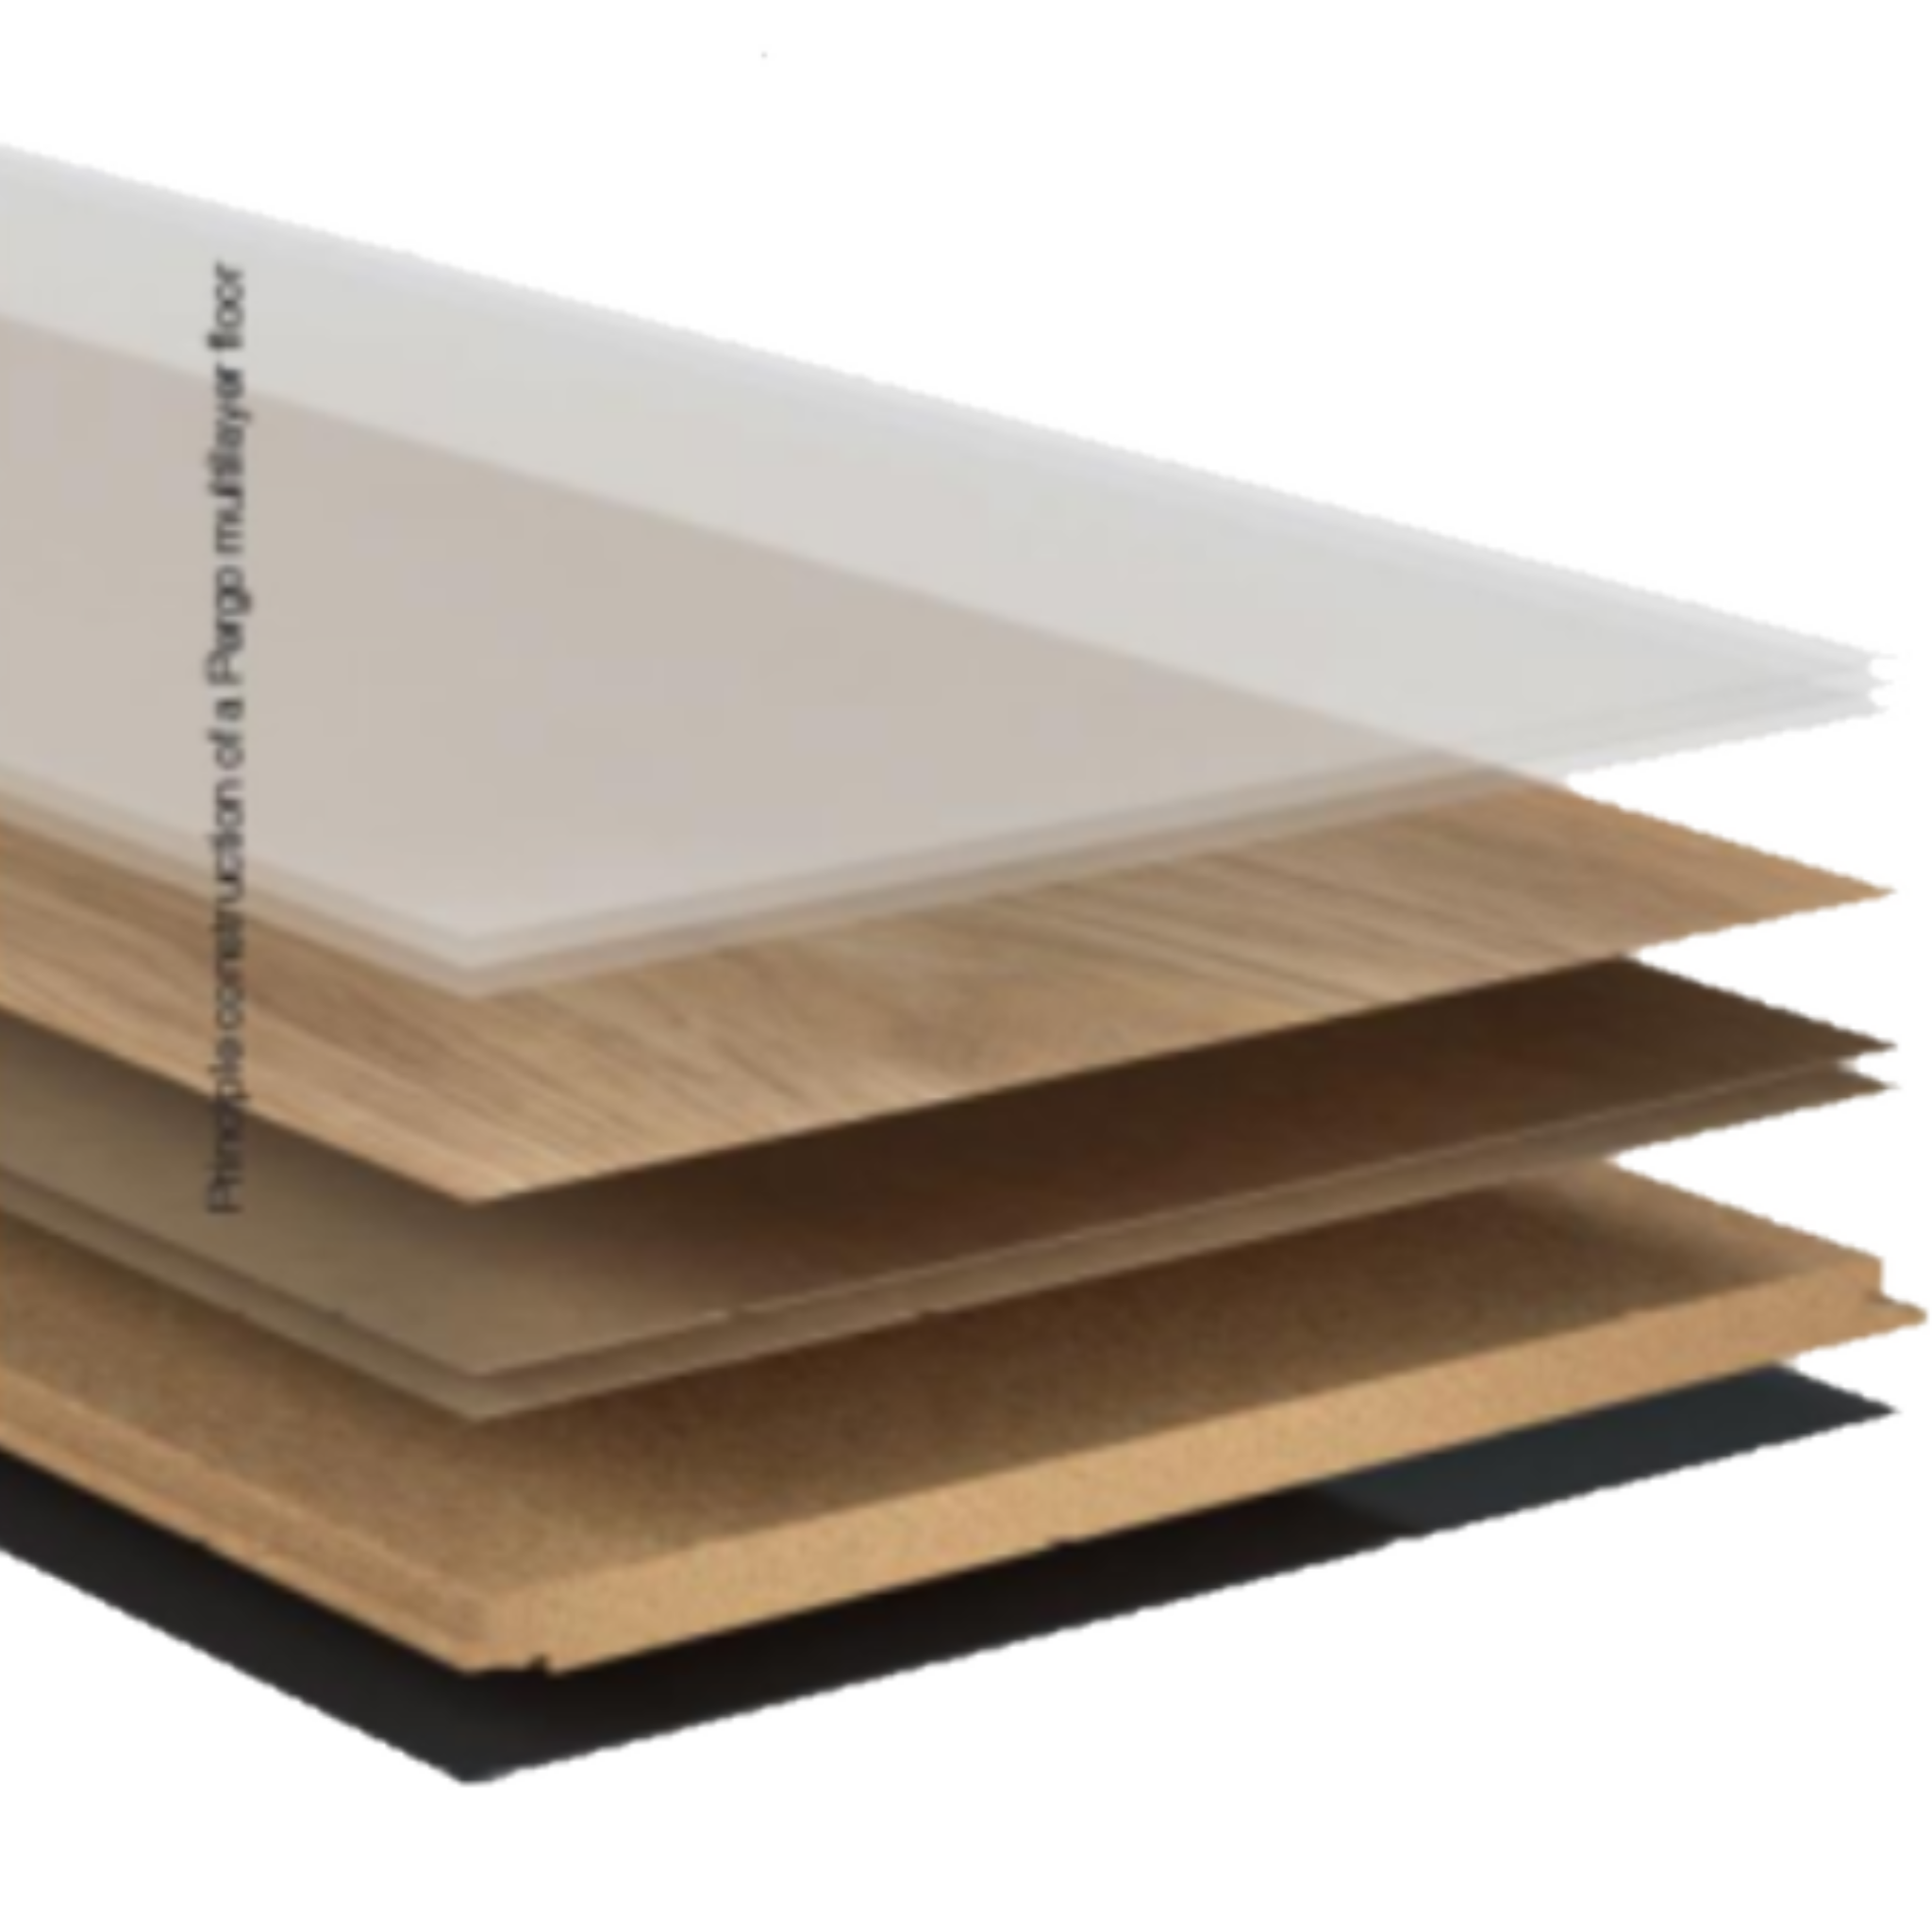
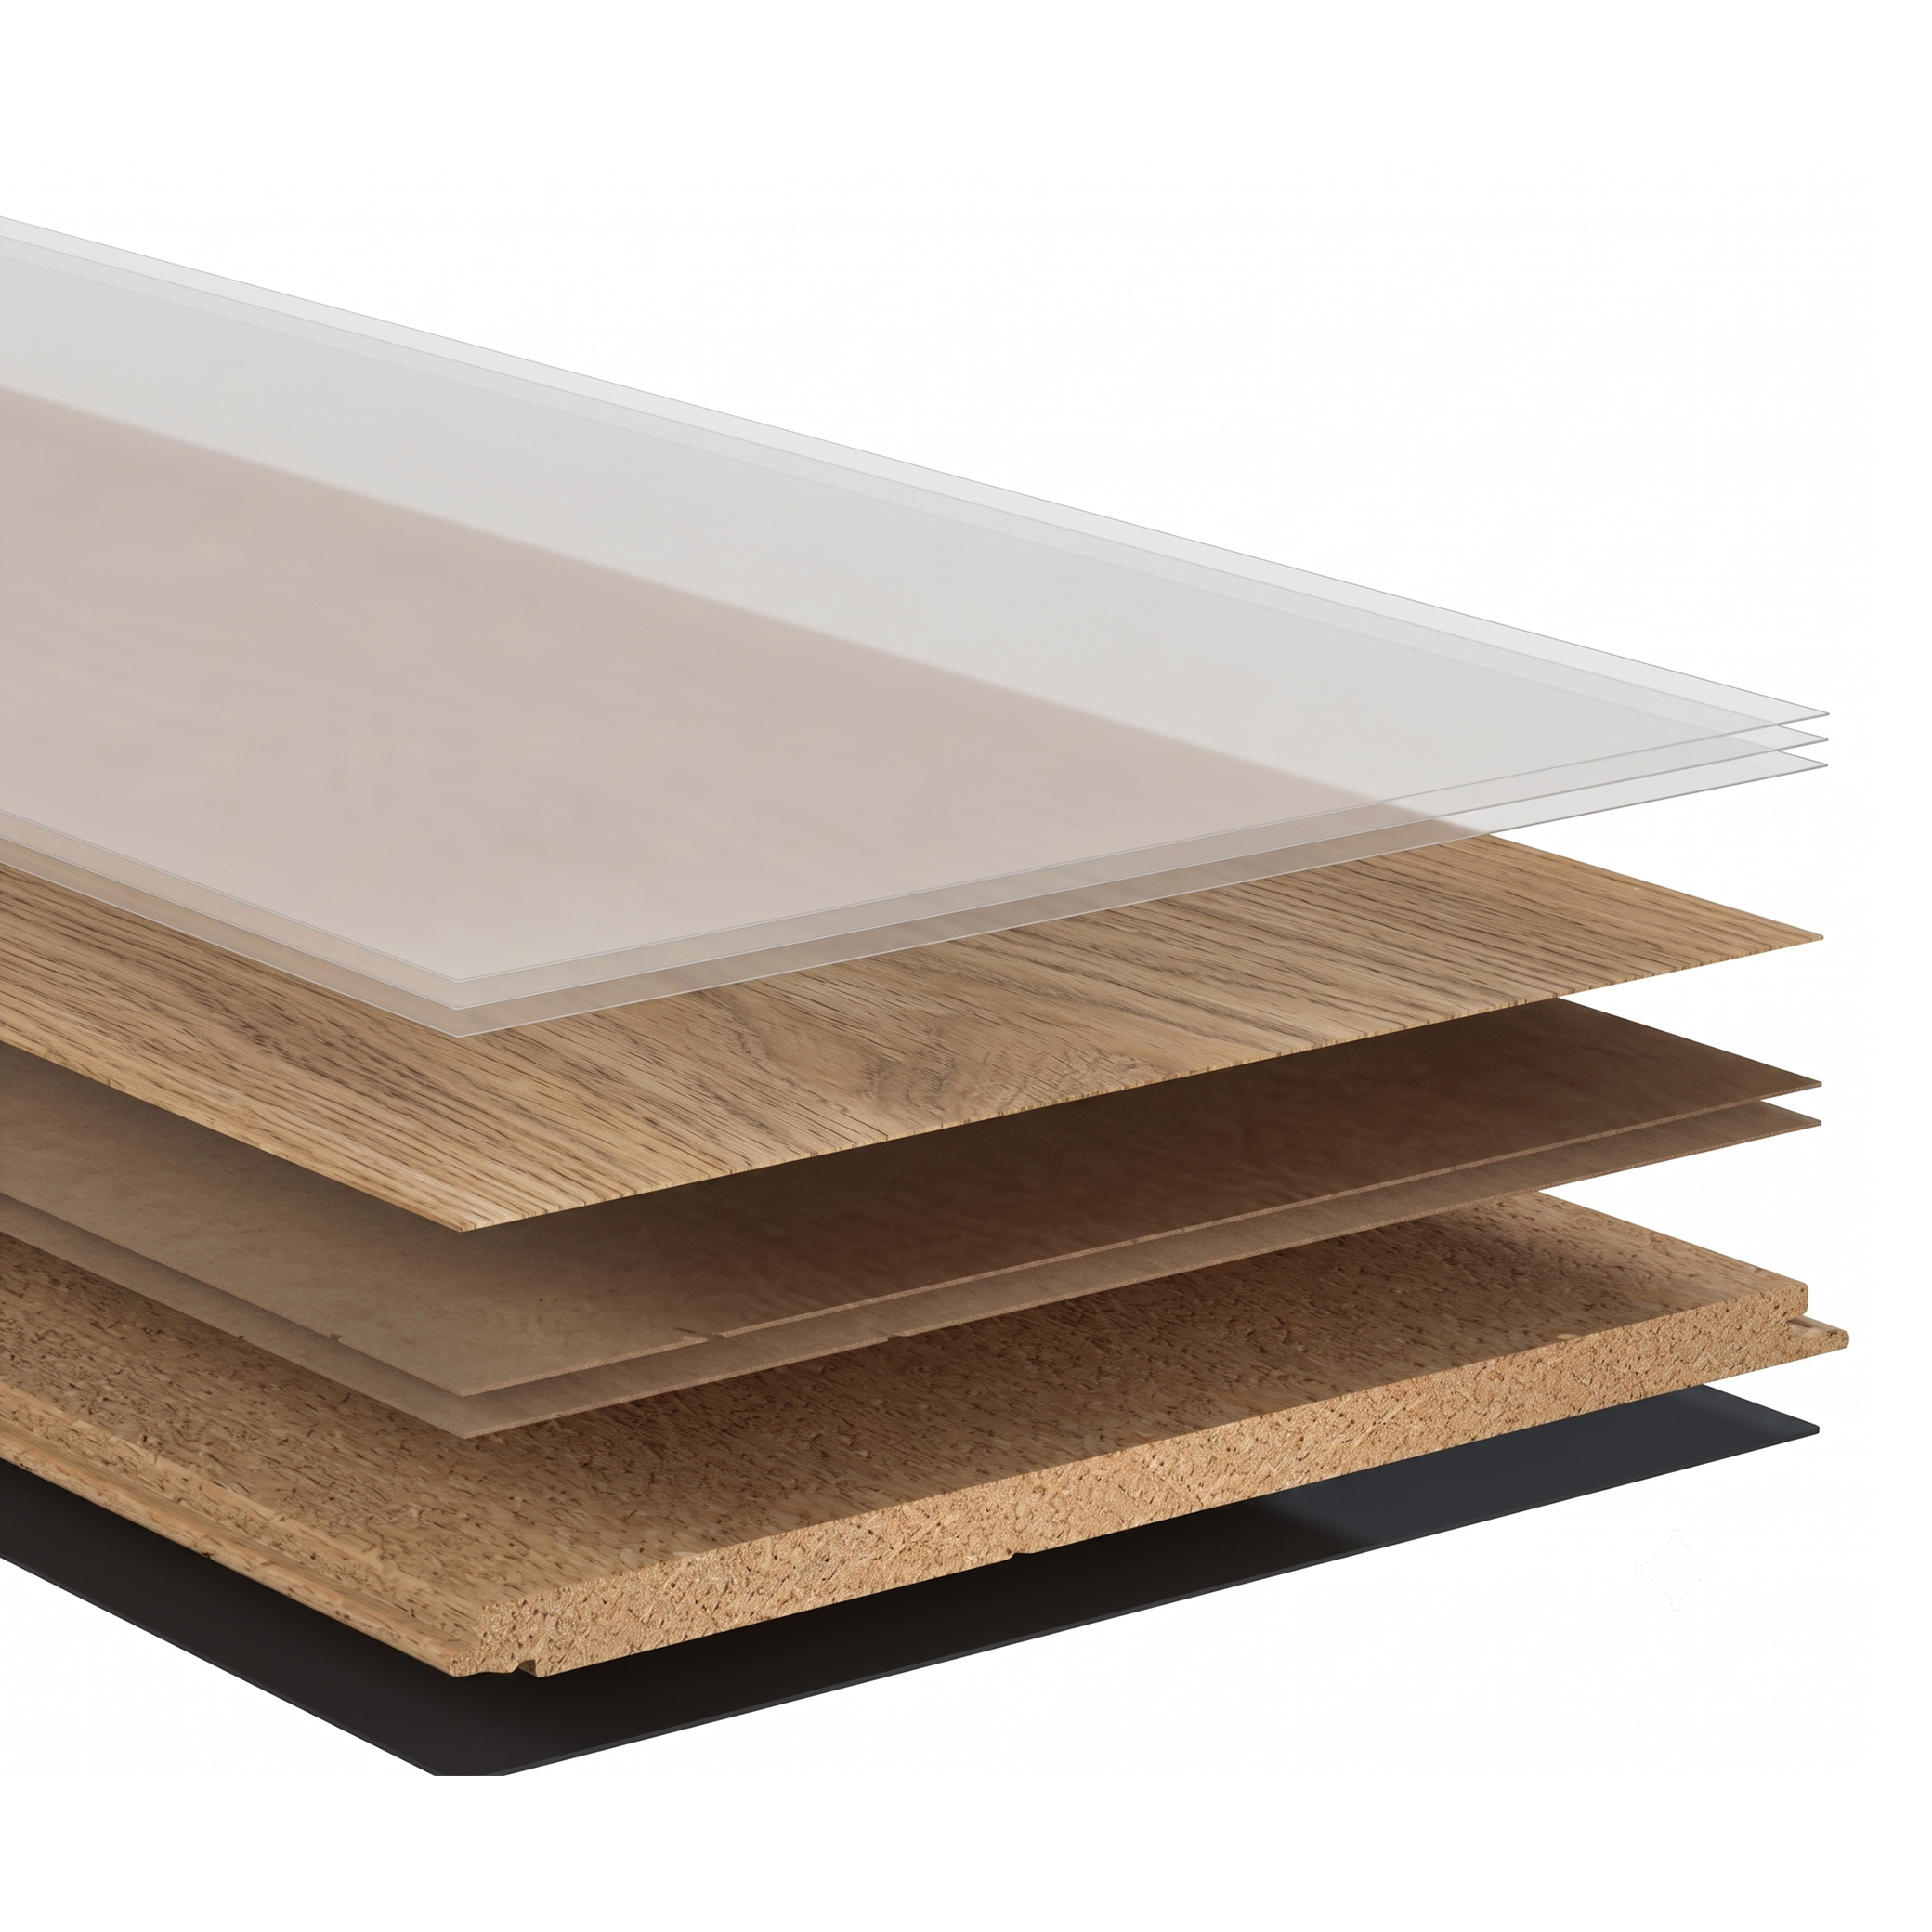
rapihin footer, rapihin foto spek tech

Changed region(s): [[0.0, 0.0625, 1.0, 0.9062], [0.2188, 0.9062, 0.2812, 0.9375]]

diff --git a/index.html b/index.html
@@ -97,7 +97,7 @@
           <p class="about__text"> 
             Sebagai distributor resmi Pergo di Indonesia, Biru Indonesia siap membantu Anda menemukan lantai yang sesuai dengan kebutuhan dan gaya hidup keluarga Anda.
           </p>
-          <a href="https://wa.me/[phone redacted]" target="_blank" class="btn btn--whatsapp">
+          <a href="https://wa.me/[phone redacted]" target="_blank" class="btn btn--whatsapp">
             <img src="assets/icon-wa.png" alt="" aria-hidden="true" />
             Hubungi via WhatsApp
           </a>
@@ -241,7 +241,7 @@
       <!-- Block 2: teks kiri, image kanan -->
       <div class="specs__block specs__block--reverse">
         <div class="specs__content">
-          <h3>Sistem One Click Installation</h3>
+          <h3>Sistem "One Click Installation"</h3>
           <p>
             Teknologi penguncian presisi yang memungkinkan pemasangan lebih cepat, 
             lebih stabil, dan lebih kuat. Sambungan antar papan menjadi lebih stabil 
@@ -286,8 +286,12 @@
           <div class="gallery__label">Navapark Residence</div>
         </div>
         <div class="gallery__card">
-          <img src="assets/arumaya_view.jpg" alt="Project x" />
-          <div class="gallery__label">Project x</div>
+          <img src="assets/iddpik2.png" alt="IDD PIK 2" />
+          <div class="gallery__label">IDD PIK 2</div>
+        </div>
+        <div class="gallery__card">
+          <img src="assets/Thepakubuwono.jpg" alt="The Pakubuwono Residence" />
+          <div class="gallery__label">The Pakubuwono Residence</div>
         </div>
       </div>
 
@@ -321,7 +325,7 @@
         </div>
 
         <div class="cta__form-card">
-          <h3>Isi Data Kamu</h3>
+          <h3>Form Konsultasi</h3>
 
           <!-- 
             TALLY EMBED — nanti ganti div#tally-placeholder ini 
@@ -353,52 +357,61 @@
       <div class="footer__grid">
 
         <div class="footer__brand">
-          <img src="assets/logo-biru-white.png" alt="Biru Indonesia" class="footer__logo" />
-          <p class="footer__tagline">Distributor material bangunan premium terpercaya di Indonesia.</p>
+          <img src="assets/biru-log-white.png" alt="Biru Indonesia" class="footer__logo" />
+          <p class="footer__tagline">Distributor dan Spesialis Kontraktor untuk Arsitektur Material Bangunan</p>
         </div>
 
         <div class="footer__col">
           <h4>Kantor Pusat</h4>
           <address>
-            Jl. Contoh No. 123<br />
-            Jakarta Selatan, 12345<br />
-            Tel: [phone redacted]
+            Jl. Pintu Besar Selatan No. 93<br />
+            Jakarta Barat, 11110<br />
+            (021) 690 9893 <br/>
+            (021) 690 6788 <br/>
+            [email redacted]
           </address>
-          <h4 style="margin-top:16px">Surabaya</h4>
+          <h4 style="margin-top:16px">Cabang Surabaya</h4>
           <address>
-            Jl. Contoh Surabaya No. 45<br />
-            Tel: [phone redacted]
+            Jl. Raya Simo jawar No.35E <br />
+            (031) 9914 2878 <br />
+            (031) 7391 079 <br />
+            [email redacted]
           </address>
-          <h4 style="margin-top:16px">Medan</h4>
+          <h4 style="margin-top:16px">Cabang Medan</h4>
           <address>
-            Jl. Contoh Medan No. 78<br />
-            Tel: [phone redacted]
+             Jl. Sutomo No 62 d/h 446<br />
+             (061) 456 9907 <br/>
+             [email redacted] <br/>
+
           </address>
         </div>
 
         <div class="footer__col">
           <h4>Tentang Kami</h4>
           <ul>
-            <li><a href="#">Perusahaan</a></li>
-            <li><a href="#">Visi &amp; Misi</a></li>
+            <li><a href="#">Biru Group</a></li>
+            <li><a href="#">Biru Indonesia</a></li>
+            <li><a href="#">Biru Home</a></li>
           </ul>
           <h4 style="margin-top:20px">Digital Content</h4>
           <ul>
             <li><a href="#">Instagram</a></li>
+            <li><a href="#">Facebook</a></li>
             <li><a href="#">YouTube</a></li>
+            <li><a href="#">Artikel</a></li>
           </ul>
         </div>
 
         <div class="footer__col">
           <h4>Katalog</h4>
           <ul>
-            <li><a href="#">Download Katalog</a></li>
-            <li><a href="#">Request E-Katalog</a></li>
+            <li><a href="#">Download E-Katalog</a></li>
+            <li><a href="#">Request Katalog Fisik</a></li>
           </ul>
           <h4 style="margin-top:20px">Contact Us</h4>
           <ul>
             <li><a href="mailto:[email redacted]">Email kami</a></li>
-            <li><a href="https://wa.me/[phone redacted]">WhatsApp</a></li>
+            <li><a href="https://wa.me/[phone redacted]">WhatsApp</a></li>
           </ul>
         </div>
 
@@ -412,7 +425,7 @@
 
 
   <!-- Floating WhatsApp Button -->
-  <a href="https://wa.me/[phone redacted]" target="_blank" class="wa-float" aria-label="Chat WhatsApp">
+  <a href="https://wa.me/[phone redacted]" target="_blank" class="wa-float" aria-label="Chat WhatsApp">
     <img src="assets/icon-wa.png" alt="WhatsApp" />
   </a>
 

diff --git a/style.css b/style.css
@@ -295,7 +295,7 @@ p  { line-height:1.7; color:var(--text-body); }
   box-shadow:var(--shadow-md); background:#000;
   aspect-ratio:16/9; margin-bottom:20px;
 }
-//addtional new code for video thumbnail
+/*addtional newcode for  videothumbnail*/
 .video-main__thumb {
   display: block;
   position: relative;
@@ -336,7 +336,7 @@ p  { line-height:1.7; color:var(--text-body); }
 .video-main__thumb:hover .video-main__play span {
   transform: scale(1.1);
 }
-//close additional code
+/*close additionalcode*/
 
 .video-main video { width:100%; height:100%; object-fit:cover; display:block; }
 .video-thumbs { display:grid; grid-template-columns:1fr 1fr; gap:16px; }
@@ -456,7 +456,7 @@ p  { line-height:1.7; color:var(--text-body); }
 }
 .cta__heading {
   font-size:clamp(1.8rem,3.5vw,2.8rem); font-weight:800;
-  color:var(--white); line-height:1.15; letter-spacing:-.025em; margin-bottom:16px;
+  color:var(--white); line-height:1.15; letter-spacing:-.025em; margin-bottom:16px; 
 }
 .cta__heading span { color:#60a5fa; }
 .cta__sub { font-size:.975rem; color:#94a3b8; line-height:1.65; margin-bottom:28px; }
@@ -477,6 +477,7 @@ p  { line-height:1.7; color:var(--text-body); }
   border:1px solid rgba(255,255,255,.1);
   border-radius:var(--radius-lg);
   padding:36px 32px;
+  text-align: center;
   backdrop-filter:blur(20px);
   -webkit-backdrop-filter:blur(20px);
   box-shadow:0 20px 60px rgba(0,0,0,.3);